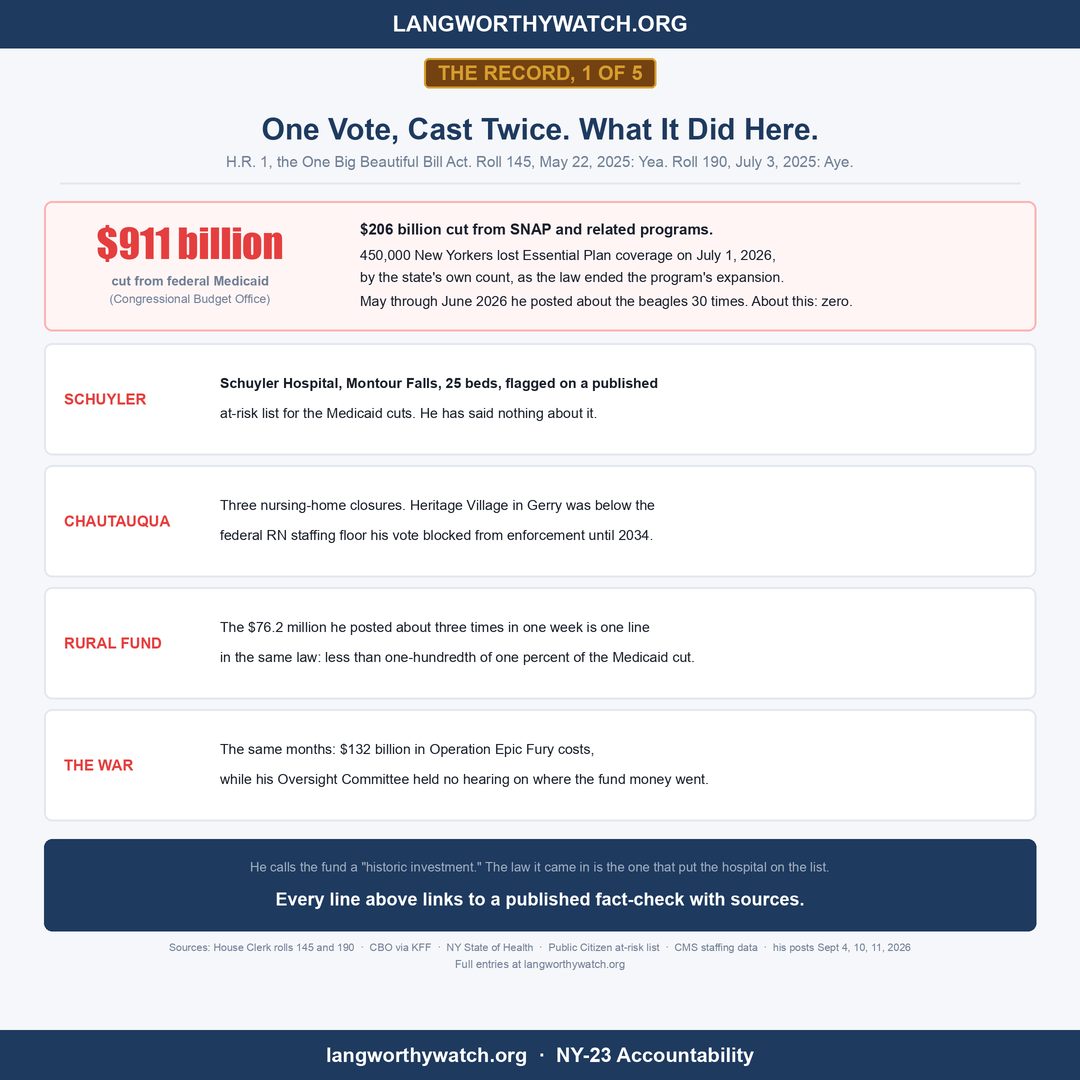
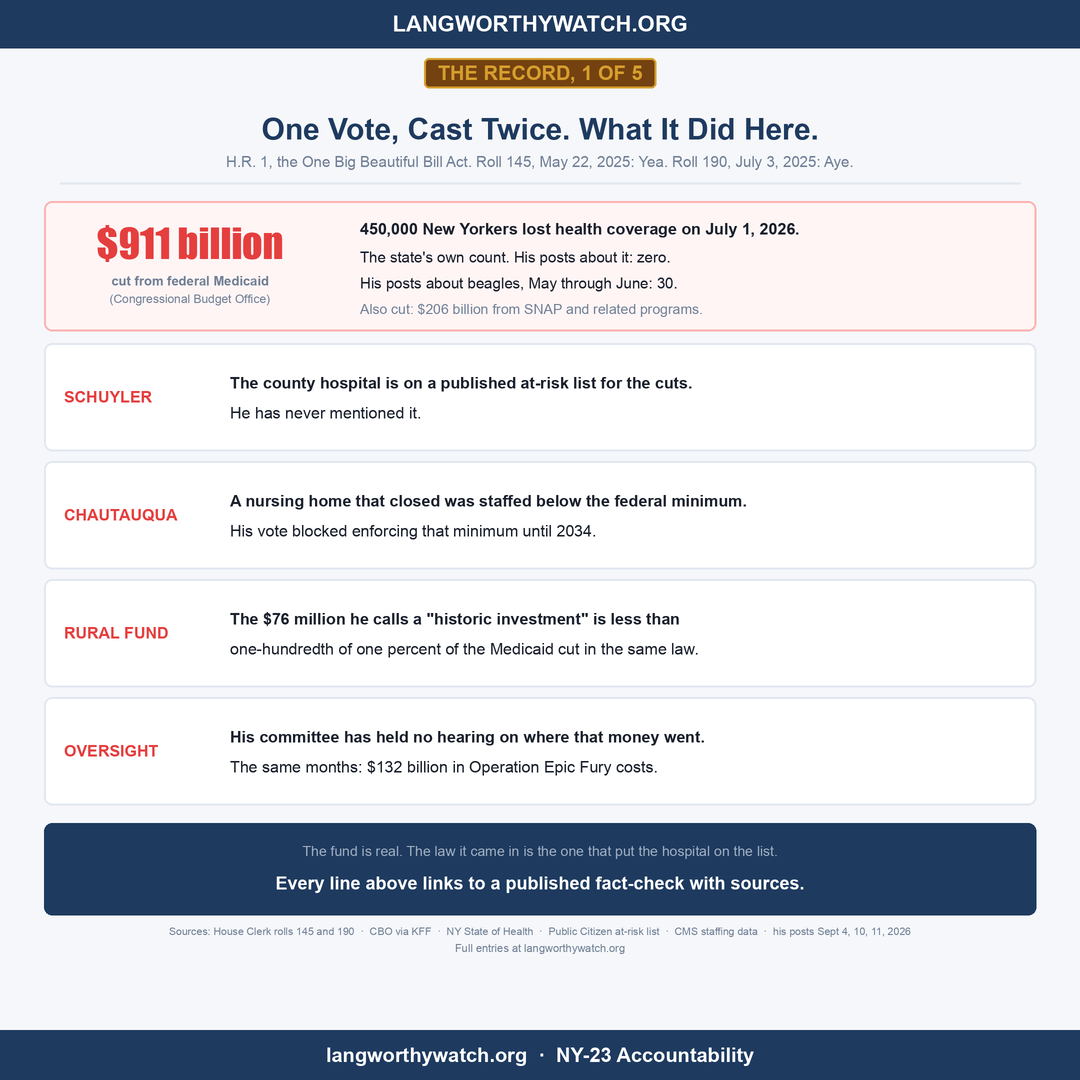
social: closing series rewritten plain (captions 980-1,340 chars; cards 1 and 4 cut to fewer, larger lines)

diff --git a/social-media/create_closing_contradictions_card.py b/social-media/create_closing_contradictions_card.py
@@ -9,36 +9,32 @@ c = Card(scale=2)
 c.brand_bar()
 y = c.badge(58, "THE RECORD, 4 OF 5")
 y = c.title(y, "What He Said. Then How He Voted.", size=30)
-y = c.subtitle(y + 6, "Four times the words and the recorded vote point in opposite directions. All from committee reports and his own letters.", size=14)
+y = c.subtitle(y + 6, "Thirteen members of the Rules Committee decide what reaches the House floor. He is the only New Yorker on it.", size=14)
 y = c.divider(y + 12)
 
 rows = [
     ("EPSTEIN FILES",
-     '"I have never opposed the release of the documents." (letters, Sept 2025 and March 2026)',
-     "July 17, 2025: voted No in the Rules Committee on the binding amendment to force DOJ to release them.",
-     "Never signed the discharge petition that forced the vote (218 signatures, Nov 12, 2025)."),
-    ("RUSSIA",
-     '"Every moment that goes by without severe consequences is a threat to the entire globe." (Feb 24, 2022)',
-     "Voted Nay on the $60 billion Ukraine supplemental (Apr 20, 2024). Voted Yea on the 2026 sanctions law",
-     "with a presidential waiver. The waiver was used Oct 16, 2026 to set the new sanctions aside."),
+     'Wrote to constituents, twice: "I have never opposed the release of the documents."',
+     "July 2025: voted in committee to block the amendment forcing their release.",
+     "Never signed the petition that finally forced the vote."),
     ("TARIFFS",
-     'Toured a Jamestown manufacturer to praise "American made." A Jamestown plant\'s insolvency filing named tariffs.',
-     "Rules Committee record votes 37, 54, 55: Nay on letting the House vote to end the tariffs.",
-     "Floor, Feb 11, 2026, Roll 65: Nay on ending the Canada tariff emergency. It passed 219 to 211."),
+     "A Jamestown furniture plant closed and named tariffs in its filing.",
+     "Three committee votes to keep the House from voting on ending the tariffs.",
+     "When the floor vote finally came, Feb 11, 2026: voted to keep them."),
     ("VETERANS",
-     "Not a cosponsor of H.R. 9237, which paired a popular benefit with cuts to future",
-     "sleep-apnea and tinnitus ratings that the VFW and DAV opposed. June 23, 2026, Rules Committee:",
-     "voted No on letting the House vote for the benefit without the cuts. Then voted to close the rule."),
+     "A veterans bill paired a popular benefit with disability-rating cuts the VFW and DAV opposed.",
+     "June 2026: voted in committee against letting the House pass the benefit without the cuts.",
+     "Then voted to close the rule."),
 ]
-row_h = 140
+row_h = 212
 for i, (tag, l1, l2, l3) in enumerate(rows):
-    top = y + i * (row_h + 8)
-    c.panel(44, top, c.w - 44, top + row_h, fill=WHITE if i % 2 else "#FFF5F5", outline="#FEB2B2" if i % 2 == 0 else BORDER)
-    c.text(64, top + 28, tag, size=14, bold=True, fill=RED, anchor="lm")
-    c.text(64, top + 58, l1, size=12.5, bold=True, fill=DARK, anchor="lm")
-    c.text(64, top + 86, l2, size=12.5, fill=DARK, anchor="lm")
-    c.text(64, top + 112, l3, size=12.5, fill=DARK, anchor="lm")
-y = y + 4 * (row_h + 8) + 8
+    top = y + i * (row_h + 10)
+    c.panel(44, top, c.w - 44, top + row_h, fill="#FFF5F5" if i % 2 == 0 else WHITE, outline="#FEB2B2" if i % 2 == 0 else BORDER)
+    c.text(64, top + 40, tag, size=16, bold=True, fill=RED, anchor="lm")
+    c.text(64, top + 84, l1, size=15, bold=True, fill=DARK, anchor="lm")
+    c.text(64, top + 122, l2, size=15, fill=DARK, anchor="lm")
+    c.text(64, top + 158, l3, size=15, fill=DARK, anchor="lm")
+y = y + 3 * (row_h + 10) + 8
 
 kick_h = 84
 c.panel(44, y, c.w - 44, y + kick_h, fill=NAVY, outline=None)
@@ -46,7 +42,7 @@ c.text(c.w / 2, y + 26, "He holds New York's only seat on the committee that dec
        size=13, fill=LIGHTGRAY, anchor="mm")
 c.text(c.w / 2, y + 56, "Three times, he used it to keep the vote from happening.", size=18, bold=True, fill=WHITE, anchor="mm")
 y += kick_h + 14
-c.text(c.w / 2, y, "Sources: H. Rept. 119-15, 119-707 committee votes  ·  House Clerk rolls  ·  his constituent letters on file  ·  P.L. 119-111  ·  VFW, DAV statements", size=10.5, fill=MUTED, anchor="mm")
+c.text(c.w / 2, y, "Sources: Rules Committee reports (votes recorded by name)  ·  House Clerk Roll 65  ·  his constituent letters on file  ·  VFW and DAV statements", size=10.5, fill=MUTED, anchor="mm")
 c.text(c.w / 2, y + 17, "Full entries at langworthywatch.org", size=11, fill=MUTED, anchor="mm")
 c.footer_bar()
 c.save(os.path.join(os.path.dirname(os.path.abspath(__file__)), "closing_4_contradictions_card.png"), to_desktop=True)

diff --git a/social-media/create_closing_vote_card.py b/social-media/create_closing_vote_card.py
@@ -17,31 +17,31 @@ c.panel(44, y + 2, c.w - 44, y + 2 + hero_h, fill="#FFF5F5", outline="#FEB2B2")
 c.text(190, y + 44, "$911 billion", size=40, impact=True, fill=RED, anchor="mm")
 c.text(190, y + 82, "cut from federal Medicaid", size=13, bold=True, fill=MUTED, anchor="mm")
 c.text(190, y + 100, "(Congressional Budget Office)", size=12, fill=MUTED, anchor="mm")
-c.text(360, y + 30, "$206 billion cut from SNAP and related programs.", size=15, bold=True, fill=DARK, anchor="lm")
-c.text(360, y + 56, "450,000 New Yorkers lost Essential Plan coverage on July 1, 2026,", size=14, fill=DARK, anchor="lm")
-c.text(360, y + 78, "by the state's own count, as the law ended the program's expansion.", size=14, fill=DARK, anchor="lm")
-c.text(360, y + 102, "May through June 2026 he posted about the beagles 30 times. About this: zero.", size=14, fill=DARK, anchor="lm")
+c.text(360, y + 30, "450,000 New Yorkers lost health coverage on July 1, 2026.", size=16, bold=True, fill=DARK, anchor="lm")
+c.text(360, y + 58, "The state's own count. His posts about it: zero.", size=15, fill=DARK, anchor="lm")
+c.text(360, y + 84, "His posts about beagles, May through June: 30.", size=15, fill=DARK, anchor="lm")
+c.text(360, y + 110, "Also cut: $206 billion from SNAP and related programs.", size=14, fill=MUTED, anchor="lm")
 y = y + 2 + hero_h + 12
 
 rows = [
-    ("SCHUYLER", "Schuyler Hospital, Montour Falls, 25 beds, flagged on a published", "at-risk list for the Medicaid cuts. He has said nothing about it."),
-    ("CHAUTAUQUA", "Three nursing-home closures. Heritage Village in Gerry was below the", "federal RN staffing floor his vote blocked from enforcement until 2034."),
-    ("RURAL FUND", "The $76.2 million he posted about three times in one week is one line", "in the same law: less than one-hundredth of one percent of the Medicaid cut."),
-    ("THE WAR", "The same months: $132 billion in Operation Epic Fury costs,", "while his Oversight Committee held no hearing on where the fund money went."),
+    ("SCHUYLER", "The county hospital is on a published at-risk list for the cuts.", "He has never mentioned it."),
+    ("CHAUTAUQUA", "A nursing home that closed was staffed below the federal minimum.", "His vote blocked enforcing that minimum until 2034."),
+    ("RURAL FUND", "The $76 million he calls a \"historic investment\" is less than", "one-hundredth of one percent of the Medicaid cut in the same law."),
+    ("OVERSIGHT", "His committee has held no hearing on where that money went.", "The same months: $132 billion in Operation Epic Fury costs."),
 ]
-row_h = 112
+row_h = 108
 for i, (tag, l1, l2) in enumerate(rows):
     top = y + i * (row_h + 10)
     c.panel(44, top, c.w - 44, top + row_h, fill=WHITE, outline=BORDER)
-    c.text(64, top + row_h / 2, tag, size=15, bold=True, fill=RED, anchor="lm")
-    c.text(220, top + 40, l1, size=14, bold=(i == 0), fill=DARK, anchor="lm")
-    c.text(220, top + 70, l2, size=14, fill=DARK, anchor="lm")
+    c.text(64, top + row_h / 2, tag, size=16, bold=True, fill=RED, anchor="lm")
+    c.text(230, top + 40, l1, size=16, bold=True, fill=DARK, anchor="lm")
+    c.text(230, top + 70, l2, size=16, fill=DARK, anchor="lm")
 y = y + 4 * (row_h + 10) + 8
 
 kick_h = 92
 c.panel(44, y, c.w - 44, y + kick_h, fill=NAVY, outline=None)
-c.text(c.w / 2, y + 28, "He calls the fund a \"historic investment.\" The law it came in is the one that put the hospital on the list.",
-       size=13, fill=LIGHTGRAY, anchor="mm")
+c.text(c.w / 2, y + 28, "The fund is real. The law it came in is the one that put the hospital on the list.",
+       size=14, fill=LIGHTGRAY, anchor="mm")
 c.text(c.w / 2, y + 60, "Every line above links to a published fact-check with sources.", size=18, bold=True, fill=WHITE, anchor="mm")
 y += kick_h + 16
 c.text(c.w / 2, y, "Sources: House Clerk rolls 145 and 190  ·  CBO via KFF  ·  NY State of Health  ·  Public Citizen at-risk list  ·  CMS staffing data  ·  his posts Sept 4, 10, 11, 2026", size=10.5, fill=MUTED, anchor="mm")

diff --git a/social-media/closing_4_contradictions_post.md b/social-media/closing_4_contradictions_post.md
@@ -1,28 +1,17 @@
-# DRAFT Oct 25, 2026 (closing series 4 of 5)
-# Entries: /fact-checks/2025-07-18-epstein-files-transparency/; /fact-checks/2026-01-14-epstein-files-discharge-petition/; /fact-checks/2026-10-19-russia-ukraine-record-sanctions-waiver/; /fact-checks/2026-07-03-rules-committee-tariff-vote-blockade/; /fact-checks/2026-07-03-hr9237-rules-vote-veterans-benefit-cuts/; /fact-checks/2026-07-16-rules-committee-gatekeeper-pattern/
+# DRAFT Oct 26, 2026 (closing series 4 of 5; plain rewrite, three items)
+# Entries: /fact-checks/2026-07-16-rules-committee-gatekeeper-pattern/ (DOCUMENTED PATTERN); /fact-checks/2025-07-18-epstein-files-transparency/; /fact-checks/2026-01-14-epstein-files-discharge-petition/; /fact-checks/2026-07-03-rules-committee-tariff-vote-blockade/; /fact-checks/2026-07-03-hr9237-rules-vote-veterans-benefit-cuts/
 # Card: closing_4_contradictions_card.png (create_closing_contradictions_card.py)
 
-He holds New York's only seat on the committee that decides what the House gets to vote on. Three times, he used it to keep the vote from happening.
+He sits on the committee that decides what the House is allowed to vote on. Three times, he voted to stop the vote.
 
-Day four of the record: what he said, then how he voted. All from committee reports, the House Clerk and his own letters to constituents.
+Thirteen members of the House Rules Committee decide which bills and amendments reach the floor. He is the only New Yorker on it. Here is what he did with the seat.
 
-EPSTEIN FILES
-→ Said, in letters to constituents in September 2025 and March 2026: "I have never opposed the release of the documents."
-→ Voted, July 17, 2025, in the Rules Committee: No on the binding amendment to force the Justice Department to release them. The next day he voted to advance a non-binding resolution instead.
-→ Never signed the discharge petition that finally forced the vote. It reached 218 signatures on November 12, 2025 without him.
+→ EPSTEIN FILES. He wrote to constituents, twice, that "I have never opposed the release of the documents." In July 2025 he voted in that committee to block the amendment that would have forced their release. He never signed the petition that finally forced the vote.
+→ TARIFFS. A Jamestown furniture plant closed and named tariffs in its filing. Three times he voted in that committee to keep the House from voting on ending the tariffs. When the vote finally came in February, he voted to keep them.
+→ VETERANS. A veterans bill paired a popular benefit with cuts to future disability ratings that the VFW and DAV opposed. He voted in that committee against letting the House pass the benefit without the cuts.
 
-RUSSIA
-→ Said, February 24, 2022: "Every moment that goes by without severe consequences is a threat to the entire globe."
-→ Voted Nay on the $60 billion Ukraine supplemental (April 20, 2024). Voted Yea on the 2026 sanctions law (September 16, 2026), which carries a presidential waiver. On October 16 the President used the waiver to set the new sanctions aside.
+Committee members are expected to vote with their leadership on these procedural questions. That is the point. The seat decides what gets a vote, and this is how he used it.
 
-TARIFFS
-→ Toured a Jamestown manufacturer to praise "American made." A Jamestown plant's insolvency filing named tariffs among the causes of its closure.
-→ Rules Committee record votes 37, 54 and 55: Nay on letting the House vote to end the tariffs. On the floor, February 11, 2026 (Roll 65): Nay on ending the Canada tariff emergency. It passed 219 to 211 without him.
-
-VETERANS
-→ H.R. 9237 paired a popular benefit with cuts to future sleep-apnea and tinnitus ratings that the VFW and DAV opposed.
-→ June 23, 2026, Rules Committee: No on letting the House vote for the benefit without the cuts. Then voted to close the rule.
-
-The fair reading: Rules Committee members are expected to vote with leadership on procedure, and these were procedural votes about whether the House may vote, not up-or-down votes on the policy. That is exactly the point. The seat decides what gets voted on. He has it, and this is what he did with it.
+The committee's own reports record each vote by name. They are linked on the entry.
 
 https://langworthywatch.org/fact-checks/2026-07-16-rules-committee-gatekeeper-pattern/

diff --git a/social-media/closing_3_seniors_post.md b/social-media/closing_3_seniors_post.md
@@ -1,26 +1,19 @@
-# DRAFT Oct 25, 2026 (closing series 3 of 5)
-# Entries: /fact-checks/2026-10-15-tax-claims-social-security-cola/ (MISLEADING overall; SS claim FALSE); /fact-checks/2026-09-09-town-hall-social-security-tax-credit/; /fact-checks/2025-12-social-security-tax/
+# DRAFT Oct 26, 2026 (closing series 3 of 5; plain rewrite)
+# Entries: /fact-checks/2026-10-15-tax-claims-social-security-cola/ (SS claim FALSE); /fact-checks/2026-09-09-town-hall-social-security-tax-credit/; /fact-checks/2025-12-social-security-tax/
 # Card: closing_3_seniors_card.png (create_closing_seniors_card.py)
 
-"No tax on Social Security." He has said it four times. The law never changed how benefits are taxed.
+"No tax on Social Security." He has told seniors that four times. It is not true, and he was told so a year ago.
 
-Day three of the record: the claim aimed at seniors.
+CLAIM: His tax law "eliminated taxes on Social Security for middle class seniors."
+VERDICT: FALSE
 
-CLAIM: The tax law "eliminated taxes on Social Security for middle class seniors."
-VERDICT: FALSE (Oct 15 entry)
+→ What the law did: a new $6,000 deduction for people 65 and over, through 2028. It shrinks as income rises and is worth about $600 a year to a senior in the lowest bracket. Worth nothing to a senior who already owes no tax.
+→ What it did not do: change the rules for taxing Social Security. If your benefits were taxed before, they still are. The deduction may lower the bill. It does not end the tax.
+→ When a 76-year-old asked him about it at a town hall in September, he told the man three times it was a "tax credit." It is not a credit either.
+→ We rated the claim misleading last December. He repeated it at the debate on October 6 and on TV on October 14.
 
-What he said, and when:
-→ July 11, 2025: "88% of seniors will no longer pay federal tax on their Social Security benefits." Rated MISLEADING in December.
-→ Sept 1, 2026: a 76-year-old asked about it at a town hall. He told him three times it was a "tax credit." It is a deduction. MISLEADING.
-→ Oct 6, 2026, WETM debate: "We gave no tax on Social Security for our seniors." FALSE.
-→ Oct 14, 2026, to WGRZ: the law "eliminated taxes on Social Security for middle class seniors." FALSE.
+He also said at the debate that "we doubled the child tax credit." The credit was doubled in 2017, five years before he took office. His law raised it from $2,000 to $2,200.
 
-What the law actually did (P.L. 119-21, Sec. 70103): a $6,000 deduction per person 65 and over, for tax years 2025 through 2028. It shrinks by 6 cents for every dollar of income over $75,000 ($150,000 for a couple). Worth about $600 to a senior in the 10 percent bracket. Worth $0 to a senior with no taxable income.
-
-What it did not do: touch the rules for taxing Social Security benefits (Internal Revenue Code Sec. 86). Up to 85 percent of benefits remain taxable above the same thresholds as before.
-
-While he was at it, at the same debate: "We doubled the child tax credit." The doubling was the 2017 law, five years before he took office. His law moved it from $2,000 to $2,200. Rated MISLEADING.
-
-The fair reading: the deduction is real and most seniors get something from it through 2028. A temporary deduction is not the elimination of a tax, and it is not a credit. He was told that in December and said it again in September and October.
+A real, temporary deduction for most seniors. Not the end of a tax. Not a credit. The entry has the law's text and every date.
 
 https://langworthywatch.org/fact-checks/2026-10-15-tax-claims-social-security-cola/

diff --git a/social-media/closing_1_vote_post.md b/social-media/closing_1_vote_post.md
@@ -1,23 +1,16 @@
-# DRAFT Oct 25, 2026 (closing series 1 of 5)
+# DRAFT Oct 26, 2026 (closing series 1 of 5; plain rewrite)
 # Entries: /fact-checks/2026-09-15-rural-health-fund-vs-cuts-and-oversight/ (MISSING CONTEXT); /fact-checks/2026-06-14-schuyler-county-hospital-at-risk/; /fact-checks/2026-06-02-chautauqua-snf-cluster/; /fact-checks/2026-05-22-beagle-posts-credit-claiming-distraction/
 # Card: closing_1_vote_card.png (create_closing_vote_card.py)
 
-One vote, cast twice. $911 billion out of Medicaid. 450,000 New Yorkers off coverage. A hospital in his district on the at-risk list.
+He voted for the law that cut Medicaid by $911 billion. Then he posted three times about the $76 million it sent back.
 
-Early voting is open. Over eleven months we have checked 176 of his statements against the record. This week we are posting what that record adds up to, one piece a day. Start with the vote.
+→ 450,000 New Yorkers lost their health coverage on July 1 because of that law. He posted about it zero times. He posted about beagles 30 times.
+→ Schuyler Hospital in Montour Falls is on a published list of hospitals at risk from the cuts. He has never mentioned it.
+→ A Chautauqua County nursing home that closed was staffed below the federal minimum. His vote blocked that minimum from being enforced until 2034.
+→ The $76 million rural health fund he calls a "historic investment" is less than one-hundredth of one percent of what the same law took out of Medicaid.
 
-Rep. Langworthy voted for H.R. 1, the One Big Beautiful Bill Act, on May 22, 2025 (Roll 145, Yea) and again on July 3, 2025 (Roll 190, Aye). By the Congressional Budget Office's accounting, the law cut federal Medicaid spending by $911 billion and SNAP and related programs by $206 billion.
+Supporters say the Medicaid changes are about work requirements, not care. The hospital list and the coverage numbers are what they are.
 
-What that meant here:
-
-→ 450,000 New Yorkers lost Essential Plan coverage on July 1, 2026, by the state's own count, when the law ended the program's expansion. Between May 3 and June 29 he posted 30 times about the beagles. About this: zero.
-→ Schuyler Hospital in Montour Falls, 25 beds, was flagged on a published at-risk list for the Medicaid cuts. He has not mentioned it.
-→ Three nursing homes in Chautauqua County closed or announced closure. Heritage Village in Gerry was operating below the federal RN staffing floor that Section 71111 of the same law blocked from enforcement until 2034. No public statement on any of the three.
-→ The $76.2 million rural health fund he posted about three times in one week is one line in the same law: less than one-hundredth of one percent of the Medicaid cut. He called it a "historic investment."
-→ His Oversight Committee has held no hearing on where that fund's money went.
-
-The fair reading: the rural fund is real money, and the law's defenders argue the Medicaid changes target eligibility and work requirements rather than care. The at-risk list and the coverage count are what they are.
-
-Every line links to a published entry with the vote record, the CBO figures and the state data.
+Every number here is on the entry, with his two votes and the state's own data.
 
 https://langworthywatch.org/fact-checks/2026-09-15-rural-health-fund-vs-cuts-and-oversight/

diff --git a/social-media/closing_2_access_post.md b/social-media/closing_2_access_post.md
@@ -1,25 +1,18 @@
-# DRAFT Oct 25, 2026 (closing series 2 of 5)
-# Entries: /fact-checks/2026-10-16-who-funds-him-and-who-can-reach-him/ (DOCUMENTED PATTERN); /correspondence/; /fact-checks/2026-09-10-oversight-seriously-attendance-record/; /fact-checks/2026-05-02-tele-town-hall-pattern/
+# DRAFT Oct 26, 2026 (closing series 2 of 5; plain rewrite)
+# Entries: /fact-checks/2026-10-16-who-funds-him-and-who-can-reach-him/ (DOCUMENTED PATTERN); /correspondence/; /fact-checks/2026-09-10-oversight-seriously-attendance-record/
 # Card: closing_2_access_card.png (create_closing_access_card.py)
 
-Zero in-person town halls in four years. 55 cents of every campaign dollar from PACs. At most 17 cents from people who live here.
+He has not held an in-person town hall in four years. More than half his campaign money comes from PACs. At most 17 cents of every dollar comes from people who live here.
 
-Day two of the record. Who can reach him, and who funds him. Every number is from his own filings and the committee's own vote sheets.
+→ No public town hall, in a room, since he took office in January 2023.
+→ Every one of the 26 constituent letters we have documented got a form letter back. Two people who wrote about different things got replies at the same minute.
+→ Of the $2.2 million he raised this cycle, 55 cents of every dollar came from PACs. Donors from outside New York gave more than donors from towns entirely inside his district.
+→ He says he takes his Oversight Committee seat "seriously." The committee's own records show him absent for 69 of its 145 recorded votes.
 
-REACHING HIM
-→ No in-person public town hall since he took office in January 2023.
-→ 26 of 26 constituent letters we have documented were answered with form letters. On March 11, 2026, two different constituents writing on two different topics got replies stamped 12:44 PM.
-→ Telephone town halls: same-day notice, recurring postponements, selective recordings.
+Fundraising like this is normal for a safe-seat incumbent, and no filing shows a donor changing a vote. We do not claim one did.
 
-FUNDING HIM
-→ $2,199,540 raised this cycle through September 30. $1,201,227 of it, 55 percent, from PACs and other political committees.
-→ Matching every itemized donor's ZIP code to the district: at most 17 cents of every dollar came from someone with an address in NY-23. Counting only ZIP codes entirely inside the district, 9 cents.
-→ Donors outside New York gave $259,013. ZIP codes wholly inside NY-23 gave $194,775.
+The simpler question: when did a constituent last get to ask him something face to face?
 
-SHOWING UP
-→ He says he takes "the 'Oversight' in Oversight Committee seriously." The committee's vote sheets record him absent for 69 of its 145 markup roll calls this Congress.
-→ He did not attend the committee's February 2026 deposition of Les Wexner, Epstein's most prominent financial patron.
-
-The fair reading: PAC-heavy fundraising is common for incumbents in safe seats, and no filing shows a donor changing a vote. The site does not claim one did. The question is simpler: when did a constituent last get to ask him something in a room?
+Every number is from his own filings and the committee's own records, on the entry.
 
 https://langworthywatch.org/fact-checks/2026-10-16-who-funds-him-and-who-can-reach-him/

diff --git a/social-media/closing_5_ledger_post.md b/social-media/closing_5_ledger_post.md
@@ -1,24 +1,21 @@
-# DRAFT Oct 25, 2026 (closing series 5 of 5; post Monday Nov 2)
+# DRAFT Oct 26, 2026 (closing series 5 of 5; post Monday Nov 2; plain rewrite)
 # Entry: /fact-checks/ (index) and /methodology/
 # Card: verdict_pie_card.png (create_verdict_pie_card.py, updated to 176)
 
-176 fact-checks since July 2025. His claims held up as accurate 8 times.
+We checked 176 of his statements against the record. Eight held up.
 
-Day five, the ledger. Over eleven months we checked 176 of Rep. Langworthy's public statements, votes and announcements against primary sources: the bill texts, the roll calls, his own FEC filings, his own press releases and letters. Here is the tally, using the site's standard labels.
+Since July 2025 this site has taken Rep. Langworthy's posts, press releases, debate answers and letters to constituents and compared each one to the bill text, the vote record, or his own filings. The tally:
 
-→ Missing context: 60
-→ Misleading: 40
-→ Documented pattern: 33
-→ Contradiction: 13
-→ False or false attribution: 13
-→ Deflection, non-responsive or mixed: 9
-→ Mostly true (held up): 8
+→ 60 left out something that changed the meaning
+→ 40 were misleading
+→ 33 were part of a pattern we documented across several instances
+→ 13 contradicted his own votes
+→ 13 were false or blamed the wrong cause
+→ 9 dodged the question or were mixed
+→ 8 held up as accurate
 
-Held up as accurate eight times. The other 168 were rated misleading, missing key context, a documented pattern, or contradicted by his own record.
+Every entry links its sources and archives them. Every entry includes the strongest case for his side. When we have been wrong, we have said so on the page. No entry accuses anyone of a crime or guesses at a motive. His office can respond to any of it, and the response would be published in full.
 
-How we work: every entry links its sources and archives them. Every entry carries a "fair reading" section with the strongest case for his side. When we get something wrong, we correct it on the page and say so. No entry accuses anyone of a crime or guesses at a motive. Any response from his office is published in full.
-
-Don't take our word for it. Pick any entry. Check his own votes and his own words against it.
+Don't take our word for it. Pick one. Check his own words and his own votes against it.
 
 https://langworthywatch.org/fact-checks/
-https://langworthywatch.org/methodology/
